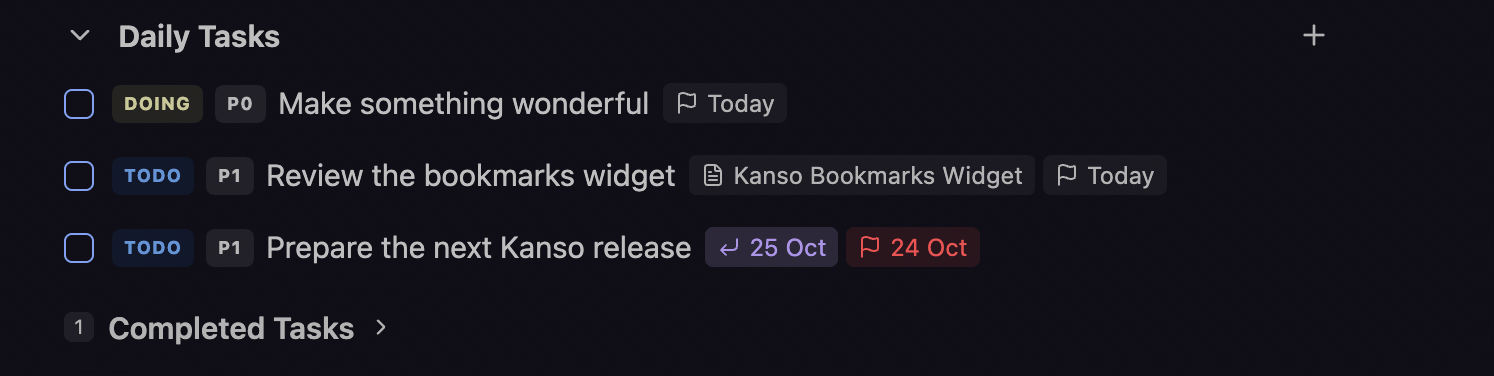
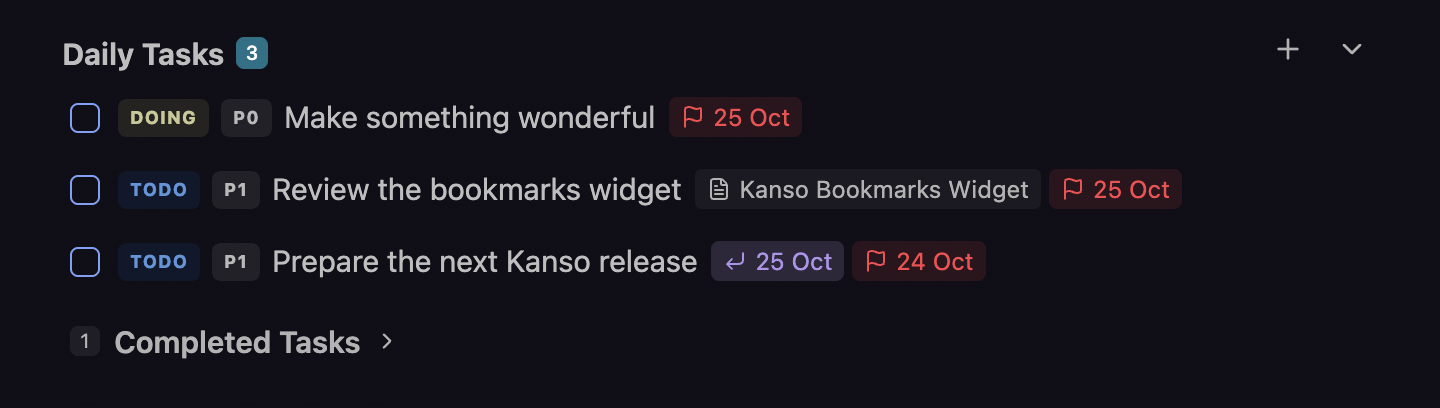
Release 1.1.1 with incomplete counts and refreshed demos
Count only Todo and Doing tasks in widget headings, cover completion and reopen behavior, and refresh the screenshot, GIF, and demo caption.

Copilot-Session: af9425b7-6769-4d9a-9852-da448710ab8a

diff --git a/tests/todos-widget.test.ts b/tests/todos-widget.test.ts
@@ -187,17 +187,21 @@ describe("todos widget", () => {
     return doc;
   }
 
-  it("keeps total counts visible and header controls ordered when expanded or collapsed", async () => {
-    const view = setup([active, completed]);
+  it.each([
+    [[active, { ...active, id: "td_doing", status: "doing" }, completed], "2"],
+    [[completed], "0"],
+    [[], "0"],
+  ] as const)("counts only incomplete tasks in expanded and collapsed headers: %j", async (todos, count) => {
+    const view = setup([...todos]);
     await settle();
-    expect(view.root.querySelector(".kanso-todo-count")?.textContent).toBe("2");
+    expect(view.root.querySelector(".kanso-todo-count")?.textContent).toBe(count);
     const actions = view.root.querySelector(".kanso-todo-header-actions")!;
     expect([...actions.querySelectorAll<HTMLButtonElement>("button")].map(node => node.dataset.focus)).toEqual(["add", "collapse"]);
     view.click("Collapse Tasks");
-    expect(view.root.querySelector(".kanso-todo-count")?.textContent).toBe("2");
+    expect(view.root.querySelector(".kanso-todo-count")?.textContent).toBe(count);
     expect(view.root.querySelector(".kanso-todo-add, .kanso-todo-row")).toBeNull();
     view.click("Expand Tasks");
-    expect(view.root.querySelector(".kanso-todo-count")?.textContent).toBe("2");
+    expect(view.root.querySelector(".kanso-todo-count")?.textContent).toBe(count);
   });
 
   it("reconciles startup without rebuilding unchanged rows or reparsing UI-only changes", async () => {
@@ -246,6 +250,7 @@ describe("todos widget", () => {
     expect(view.root.querySelector(".is-completing.is-completed")).not.toBeNull();
     await settle();
     expect(view.data().todos[0]?.status).toBe("completed");
+    expect(view.root.querySelector(".kanso-todo-count")?.textContent).toBe("0");
     expect(view.state.busy).toBe(false);
     expect(view.root.querySelector(".is-completing")?.hasAttribute("inert")).toBe(true);
     expect(view.root.querySelector(".is-completing .kanso-todo-status")?.textContent).toBe("TODO");
@@ -333,6 +338,7 @@ describe("todos widget", () => {
     await settle();
     if (fails) {
       expect(view.root.querySelector(".is-completing")).toBeNull();
+      expect(view.root.querySelector(".kanso-todo-count")?.textContent).toBe("1");
       expect(view.root.querySelector(".kanso-message")?.textContent).toBe("Save failed after remount");
       expect(view.root.querySelector<HTMLInputElement>(".kanso-todo-checkbox")?.checked).toBe(false);
       expect(motion.animations).toHaveLength(0);
@@ -420,11 +426,13 @@ describe("todos widget", () => {
     pointerComplete(view.root, completed.id);
     await settle();
     expect(view.data().todos[0]?.status).toBe("todo");
+    expect(view.root.querySelector(".kanso-todo-count")?.textContent).toBe("1");
     vi.mocked(view.host.read).mockResolvedValueOnce(JSON.stringify({
       version: 2, id: "kt_test", todos: [completed],
     }));
     await view.widget.refresh();
     expect(view.root.querySelector(".kanso-completed-count")?.textContent).toBe("1");
+    expect(view.root.querySelector(".kanso-todo-count")?.textContent).toBe("0");
     expect(view.state.completing.size).toBe(0);
     expect(motion.animations).toHaveLength(0);
   });
@@ -588,7 +596,7 @@ describe("todos widget", () => {
 
     expect(view.state.collapsed).toBe(true);
     expect(view.root.classList.contains("is-collapsed")).toBe(true);
-    expect(view.root.querySelector(".kanso-todo-count")?.textContent).toBe("2");
+    expect(view.root.querySelector(".kanso-todo-count")?.textContent).toBe("1");
     expect(view.root.querySelector(".kanso-todo-list")).toBeNull();
     expect(view.root.querySelector(".kanso-completed-toggle")).toBeNull();
     expect(view.root.querySelector(".kanso-todo-add")).toBeNull();

diff --git a/src/todos/widget.ts b/src/todos/widget.ts
@@ -312,7 +312,7 @@ export class TodosWidget extends MarkdownRenderChild {
     const headingLabel = element(headingCopy, "span", "kanso-todo-heading-label", title);
     headingLabel.id = `kanso-todo-heading-${crypto.randomUUID()}`;
     this.root.setAttribute("aria-labelledby", headingLabel.id);
-    element(headingCopy, "span", "kanso-todo-count", String(this.data.todos.length));
+    element(headingCopy, "span", "kanso-todo-count", String(this.data.todos.filter(todo => todo.status !== "completed").length));
 
     if (state.collapsed) {
       if (hadFocus && state.focus) this.focus(state.focus.key, state.focus.start, state.focus.end);

diff --git a/README.md b/README.md
@@ -14,7 +14,7 @@ theme-native widget, with status, priority, due dates, and links to source notes
 - Set due dates with local-calendar labels and overdue highlighting.
 - Link tasks to source notes and open them directly.
 - Collapse a list or expand its completed tasks independently in each pane.
-- See the total task count beside the heading, even when the list is expanded.
+- See the incomplete task count beside the heading, even when the list is expanded.
 - Complete tasks with a smooth exit animation that respects reduced motion.
 
 If you've found Kanso Todos useful, please consider
@@ -22,9 +22,9 @@ If you've found Kanso Todos useful, please consider
 
 ## Demo
 
-Add a task with priority and a due date, complete it, and collapse the list:
+Add tasks with priorities and due dates, edit them inline, and mark them complete:
 
-![Adding, completing, and collapsing tasks](assets/kanso-todos.gif)
+![Adding, editing, and completing tasks](assets/kanso-todos.gif)
 
 ## Installation
 
@@ -87,8 +87,9 @@ while you edit, your draft is retained. Review the conflict before saving again:
 the second explicit save replaces the newer editable values.
 
 List collapse and the Completed section are temporary pane-local state, not
-settings synchronized between devices. The heading count includes active and
-completed tasks; Add and collapse controls sit on the right. There is no settings page.
+settings synchronized between devices. The heading counts only Todo and Doing
+tasks, excluding completed tasks even while they animate out. Add and collapse
+controls sit on the right. There is no settings page.
 
 ## Storage and compatibility
 

diff --git a/docs/todos.md b/docs/todos.md
@@ -72,11 +72,12 @@ semantics rather than converting through UTC.
   The adjacent all-caps badge cycles active tasks between `todo` and `doing`.
   A same-sized neutral badge displays optional priority; clicking it cycles
   `P0` -> `P1` -> `P2` -> `P0`, while Edit can clear priority.
-- The heading always shows the total count (including completed tasks) after the
+- The heading always shows the incomplete count (`todo` and `doing`) after the
   title in a theme-accent badge: 16px high, 10px tabular text, 4px corners and a
-  6px title gap. Completed retains its smaller badge. Add and collapse sit on the
+  6px title gap. Successfully completed tasks are excluded even while their rows
+  animate out. Completed retains its smaller badge. Add and collapse sit on the
   right, with collapse last.
-- Collapse mounts only the heading, total count and expand control.
+- Collapse mounts only the heading, incomplete count and expand control.
   Clicking the collapsed header expands it. **Both collapse and completed-section
   expansion are transient pane state**; never persist
   them to plugin data or YAML.

diff --git a/docs/releasing.md b/docs/releasing.md
@@ -52,6 +52,13 @@ preserved. An isolated live widget also passed 640px and 320px layout checks
 and native fade/height-collapse checks. Temporary notes and test artifacts were
 removed. This record does not establish new real-device mobile validation.
 
+Later on 15 November 2026, the 1.1.1 incomplete-count patch passed 85 automated
+tests, the production build, and release checks. The installed Playground build's
+seven visible widgets were checked against their incomplete task counts,
+including zero-count lists. The refreshed screenshot and 24.84-second GIF were
+reviewed for legibility, sample-only content, and agreement with the new count
+behavior. The demo caption now describes the recorded add/edit/complete flow.
+
 ### Maintainer release sign-off
 
 On 25 October 2026, the maintainer confirmed the remaining manual launch gates
